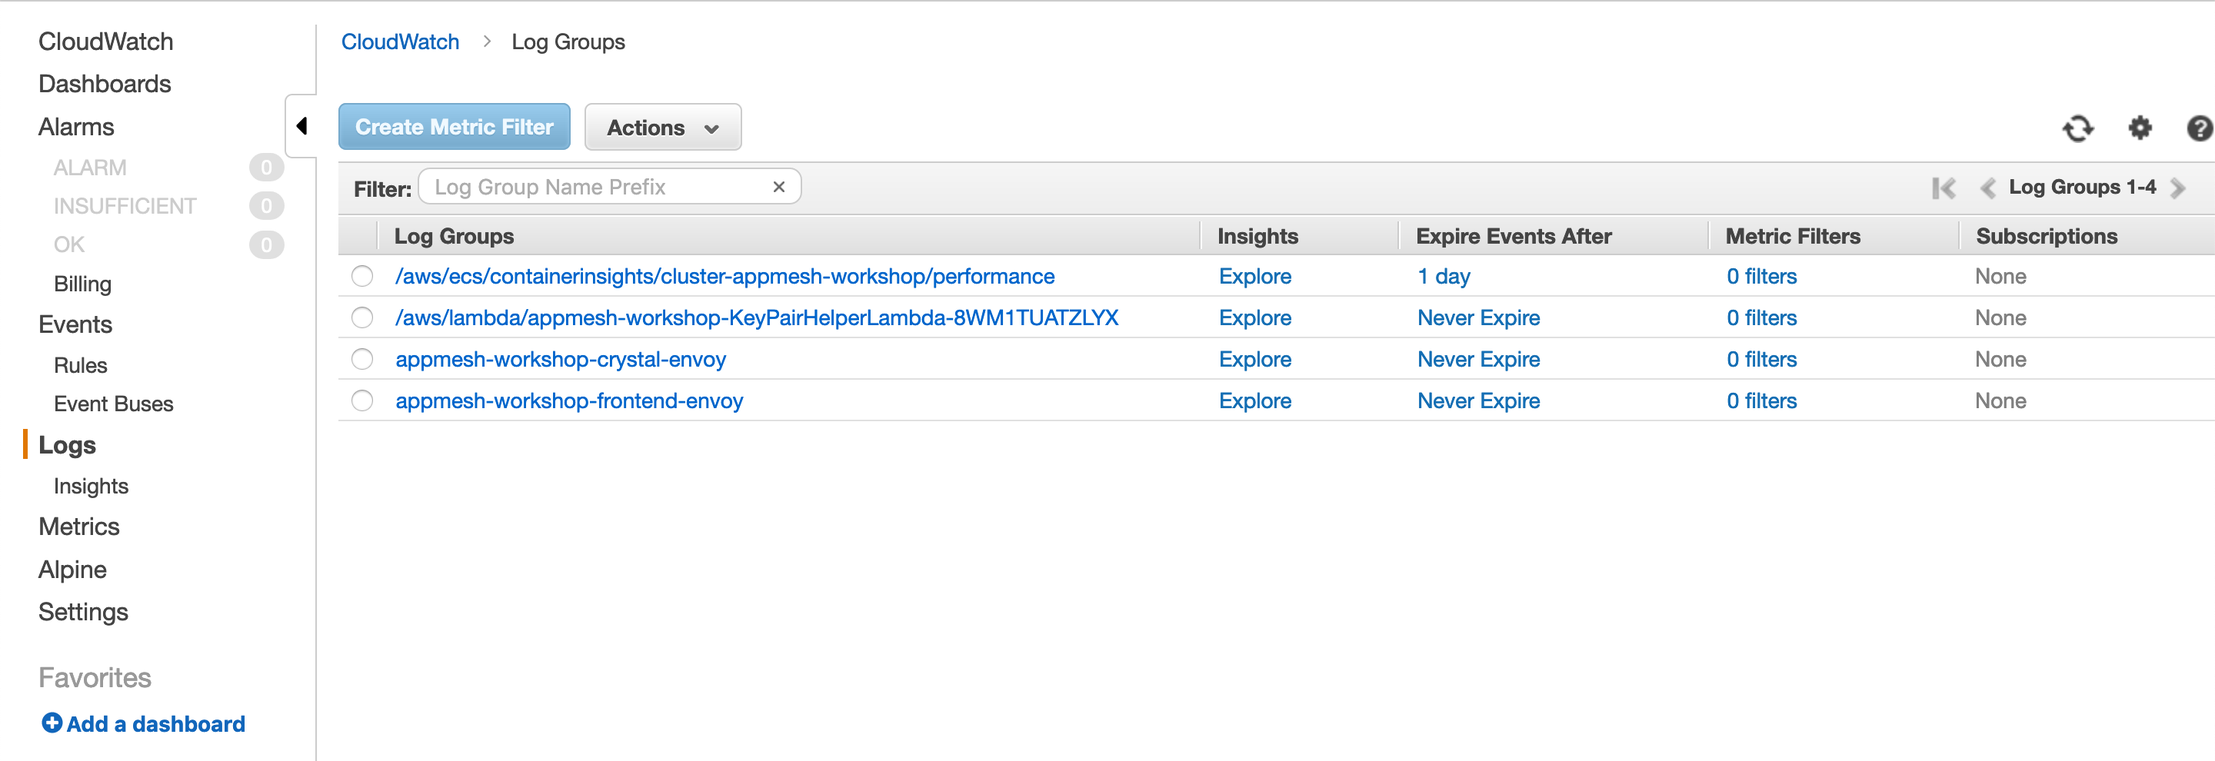
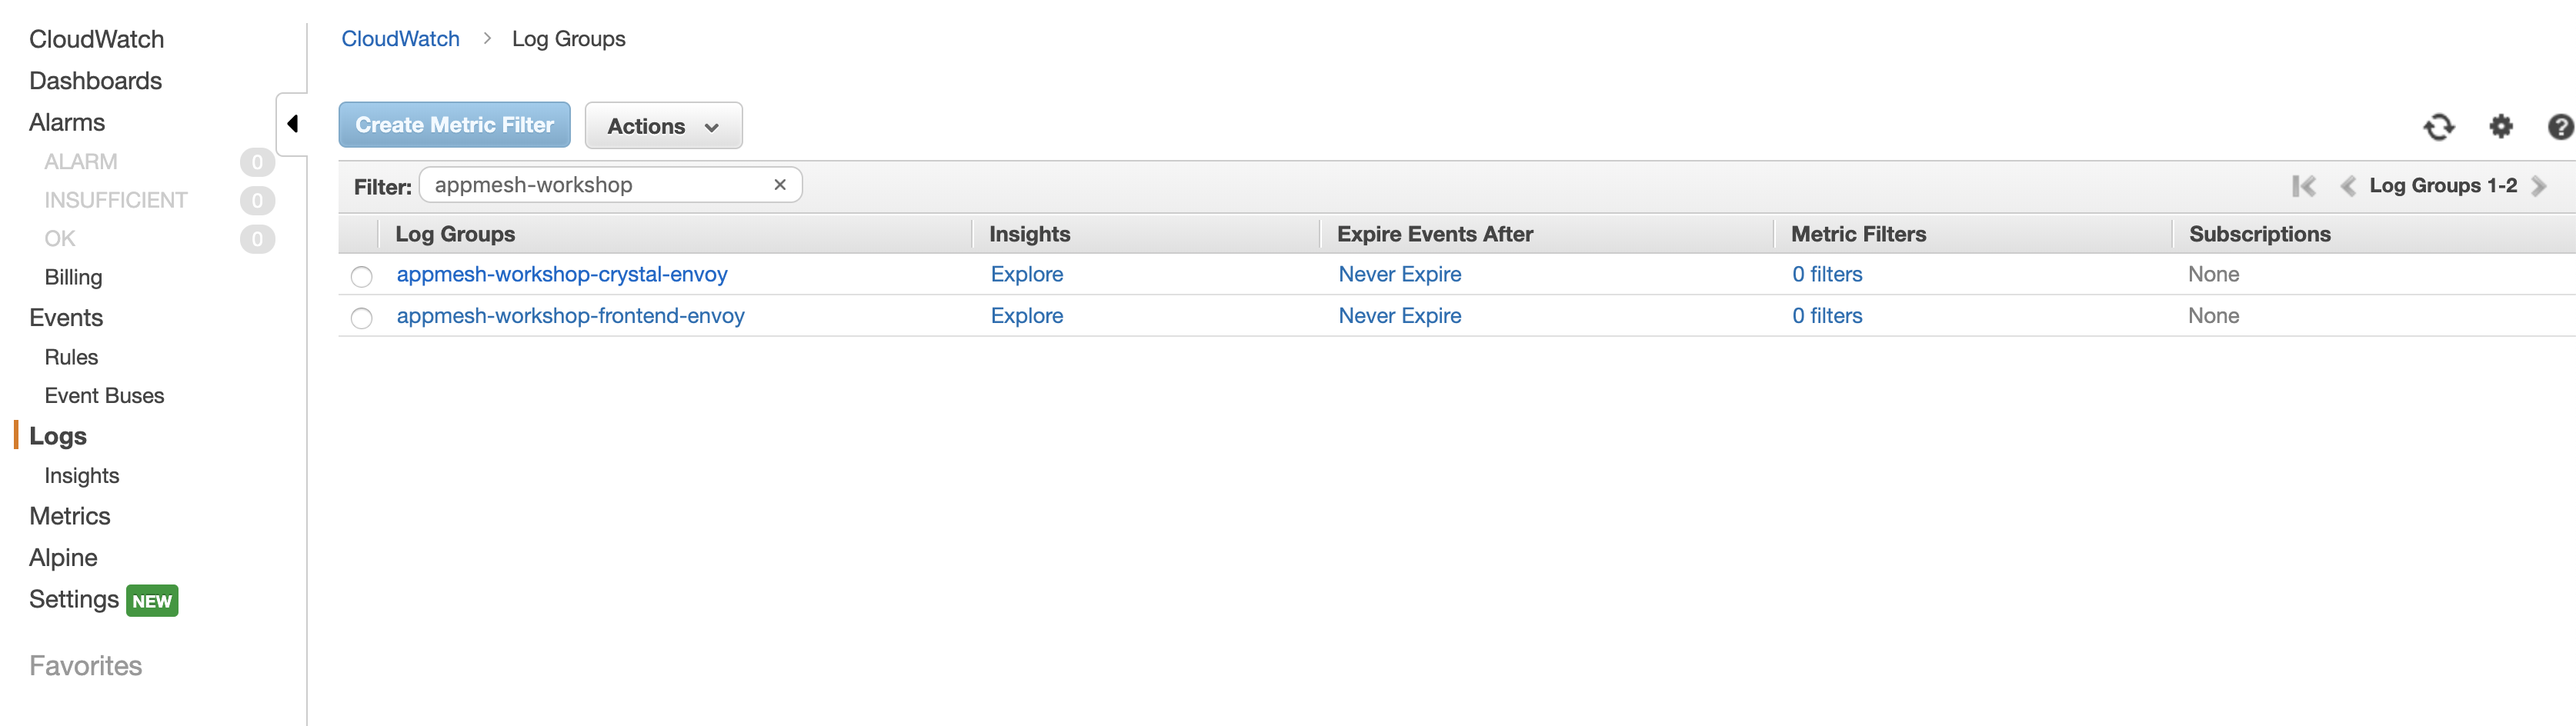
Adding cleanup steps for cw log groups and fixing typos

diff --git a/content/mesh_crystal/createmesh.md b/content/mesh_crystal/createmesh.md
@@ -14,9 +14,9 @@ In the next few sections, you will perform 2 broad set of tasks:
 
 * You will use the AWS CLI to create and configure the App Mesh resources needed to represent the microservices available in your environment like virtual services and virtual nodes. 
 
-* You will add a docker container running the Envoy proxy to each compute environment where you have microservices running. AWS App Mesh supports EC2, ECS and EKS and will show you how to add Envoy in each of this environments, without modifying your microservice source code. The process for enabling the Envoy proxy is different for each compute environment. In the following sections you will perform the changes needed to enable each compute environment so it can be 
+* You will add a docker container running the Envoy proxy to each compute environment where you have microservices running. AWS App Mesh supports EC2, ECS and EKS and will show you how to add Envoy in each of these environments, without modifying your microservice source code. The process for enabling the Envoy proxy is different for each compute environment. In the following sections you will perform the changes needed to enable each compute environment. 
 
-A key feature of Envoy worth mentioning is that it exposes a set of APIs. These APIs are leverage by AWS App Mesh to dynamically configure Envoy's routing logic, freeing developers from the tedious task of manually updating config files.
+A key feature of Envoy worth mentioning is that it exposes a set of APIs. These APIs are leveraged by AWS App Mesh to dynamically configure Envoy's routing logic, freeing developers from the tedious task of manually updating config files.
 
 Now every time you launch an Envoy enabled microservice, the Envoy proxy will contact the AWS App Mesh Management API to subscribe to resource information for Listeners, Clusters, Routes, and Endpoints. The connection from the Envoy proxy to the AWS App Mesh management API endpoint is held, which allows AWS App Mesh to stream updates to the Envoy proxy as users introduce changes to either of the resources listed above.   
 

diff --git a/content/prerequisites/bootstrapsh.md b/content/prerequisites/bootstrapsh.md
@@ -136,6 +136,9 @@ Take a moment to familiarize with the resources that were just created. At this 
 echo "http://$(jq -r '.ExternalLoadBalancerDNS' cfn-output.json)/"
 ```
 
+{{% notice info %}} At this point, the EC2 instances are being registered behind the Load Balancer. It might take a while for them to be available, so if you are seeing any error, just wait a little and try to open the URL again. {{% notice info %}} 
+
+
 What's going on?
 
 Here is what's happening. You have deployed the following components:

diff --git a/content/cleanup/log_groups.md b/content/cleanup/log_groups.md
@@ -1,0 +1,14 @@
+---
+title: "Delete the CW log groups"
+date: 2018-08-07T12:37:34-07:00
+weight: 80
+---
+
+* Delete the Log Groups from CloudWatch logs.
+
+```bash
+# Delete CloudWatch log groups
+aws logs delete-log-group --log-group-name appmesh-workshop-crystal-envoy
+aws logs delete-log-group --log-group-name appmesh-workshop-frontend-envoy
+
+```

diff --git a/content/cleanup/iam_role.md b/content/cleanup/iam_role.md
@@ -1,7 +1,7 @@
 ---
 title: "Cleanup the admin IAM Role"
 chapter: false
-weight: 90
+weight: 100
 ---
 
 After deleting the Cloud9 instance, you will be able to delete de IAM Role with Administrator access previously created. 

diff --git a/content/cleanup/workspace.md b/content/cleanup/workspace.md
@@ -1,7 +1,7 @@
 ---
 title: "Cleanup the Workspace"
 chapter: false
-weight: 80
+weight: 90
 ---
 
 Since we no longer need the Cloud9 instance to have Administrator access
